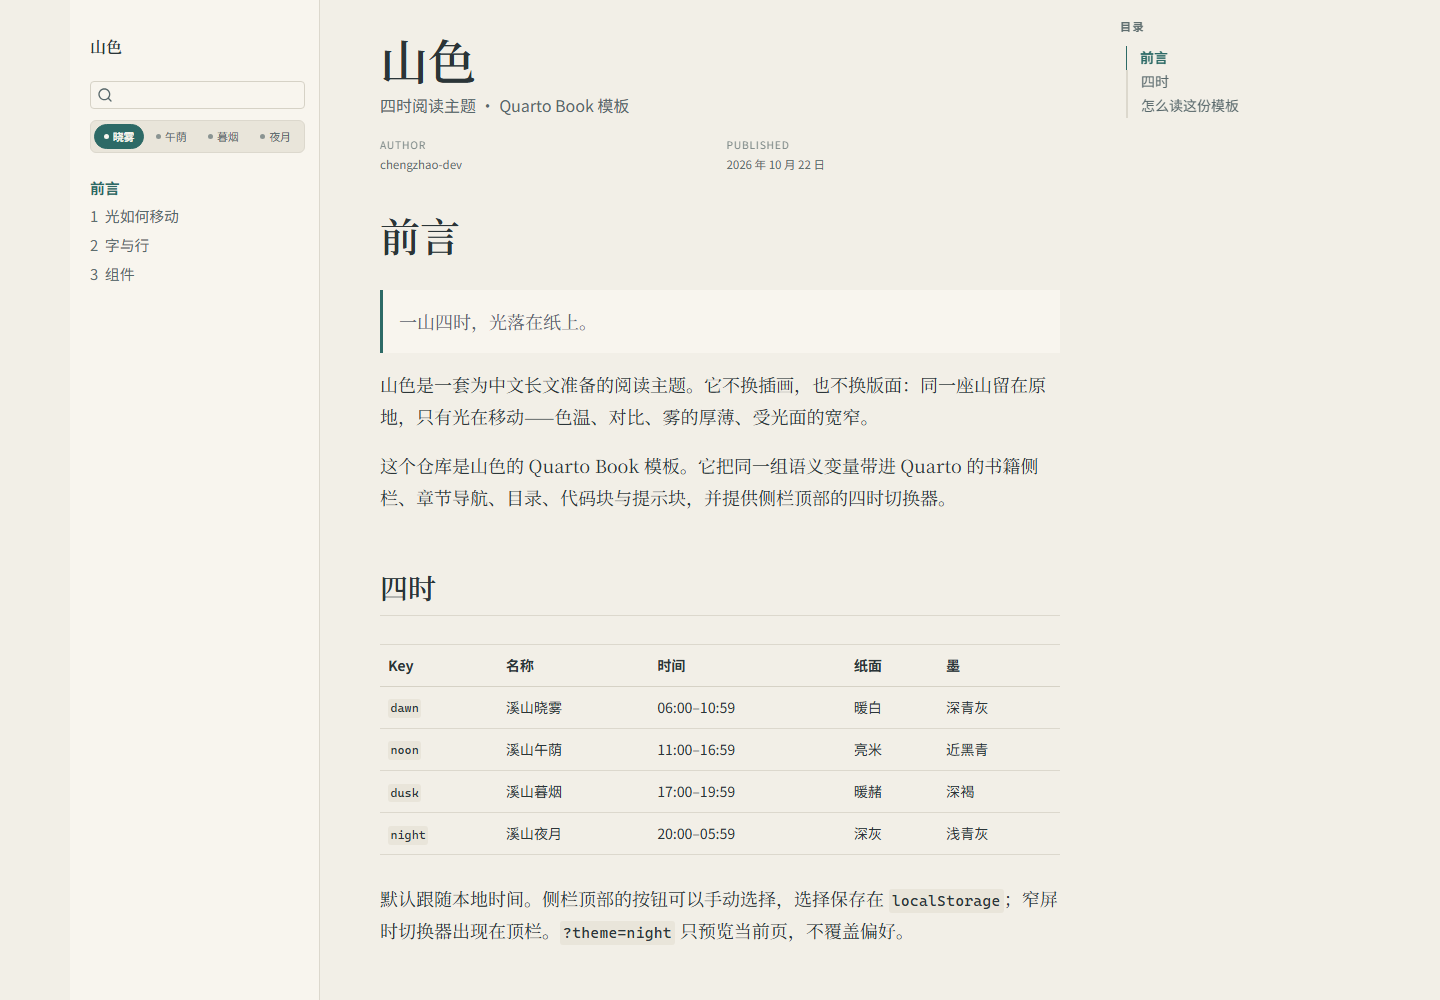
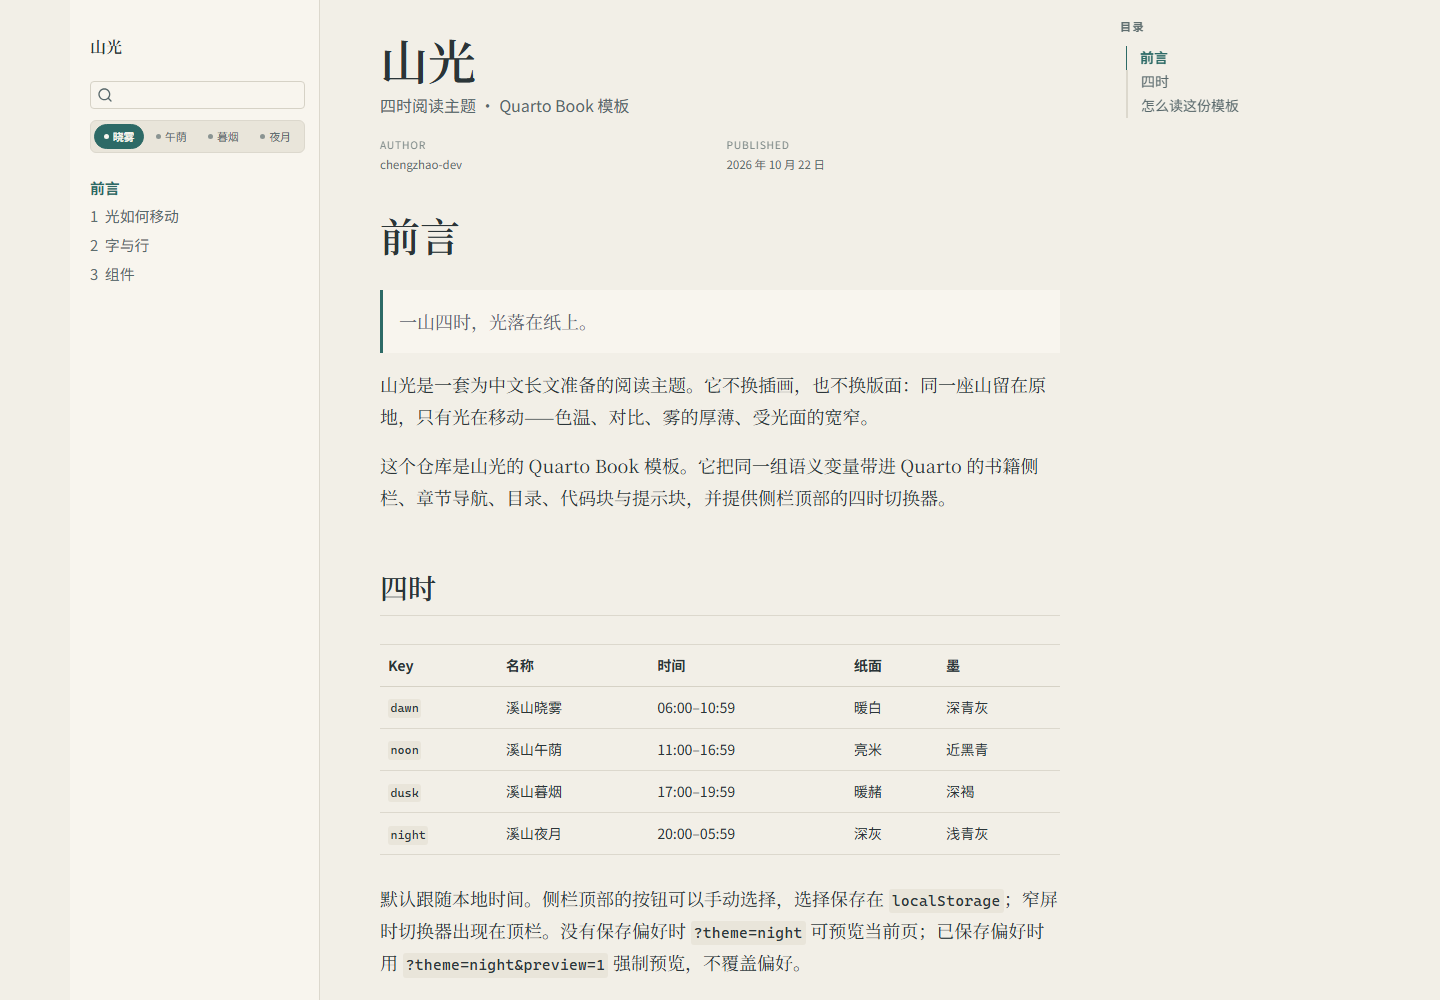
docs: 中文名改为「山光」并更新示例截图

diff --git a/README.md b/README.md
@@ -1,4 +1,4 @@
-# 山色 · Hill Light for Quarto Book
+# 山光 · Hill Light for Quarto Book
 
 一套为中文长文准备的四时阅读主题，打包成 Quarto Book 扩展。同一座山留在原地，只让光移动：晓雾、午荫、暮烟、夜月共用一套语义变量，切换时不重建 DOM，也不换版式。
 
